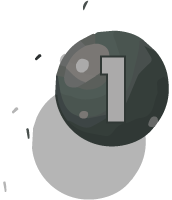
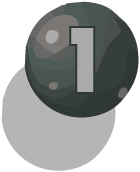
change bombs

diff --git a/src/scripts/TweenManager.js b/src/scripts/TweenManager.js
@@ -13,13 +13,13 @@ class TweenManager {
                 this.oScene.bombGroup.add(bomb);
                 switch (bomb.texture.key) {
                     case "bomb-1":
-                        bomb.body.setCircle(60, 50, 30);
+                        bomb.body.setCircle(57, 25, 0);
                         break;
                     case "bomb-2":
                         bomb.body.setCircle(70, 20, 15);
                         break;
                     case "bomb-3":
-                        bomb.body.setCircle(80, 70, 45);
+                        bomb.body.setCircle(80, 30, 0);
                         break;
                     case "bomb-4":
                         bomb.body.setCircle(85, 45, 25);

diff --git a/src/scripts/LevelManager.js b/src/scripts/LevelManager.js
@@ -5,7 +5,7 @@ class LevelManager {
             {
                 oBombs: {
                     bomb_0: {
-                        texture: "bomb-1",
+                        texture: "bomb-5",
                     },
                 }
             },

diff --git a/src/main.js b/src/main.js
@@ -27,7 +27,7 @@ const init = () => {
 			default: "arcade",
 			arcade: {
 				gravity: { y: 0 },
-				debug: false,
+				debug: true,
 			},
 		}
 	});
